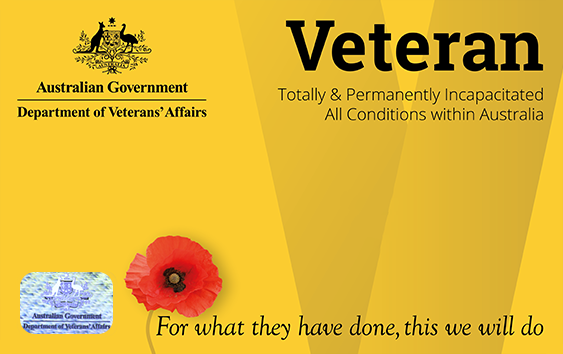
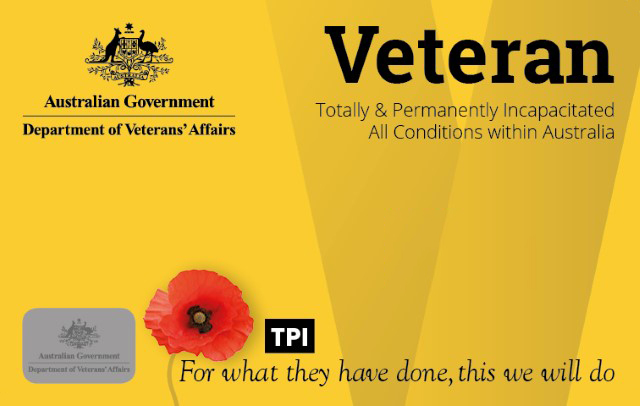
adding card on the way state

diff --git a/src/sass/myservice-healthcards.scss b/src/sass/myservice-healthcards.scss
@@ -1,3 +1,9 @@
+.health-card__on-its-way {
+  hr.non-breaking-hr, p {
+    width: 70%;
+  }
+}
+
 .health-cards__page-wrapper {
   background: $gray-light;
   padding-bottom: 50px;
@@ -47,13 +53,15 @@
 }
 
 .health-card__image--on-its-way {
-  .health-card__image,
-  .card-text {
-    opacity: 0.5;
+  background-color: #fcfcfc;
+  border: 3px dashed #eeeeee;
+  
+  .health-card__image {
+    opacity: 0;
   }
 
   &:before {
-    background: rgba(0, 0, 0, 0.7);
+    background: #e2e2e2;
     border-radius: 3px;
     opacity: 1;
     content: "Your card is on its way";
@@ -308,6 +316,13 @@ hr.non-breaking-hr {
 
 
 @media screen and (min-width: $AU-media-sm) {
+
+  .health-card__on-its-way {
+    hr.non-breaking-hr, p {
+      width: 90%;
+    }
+  }
+
   .health-card__header-text {
     max-width: 200px;
   }
@@ -393,10 +408,10 @@ hr.non-breaking-hr {
   }
 
 .health-card__image--on-its-way {
-  .health-card__image,
-  .card-text {
-    opacity: 0.5;
-  }
+  // .health-card__image,
+  // .card-text {
+  //   opacity: 0.5;
+  // }
 
   &:before {
     font-size: 1.3em;
@@ -441,6 +456,12 @@ hr.non-breaking-hr {
 @media screen and (min-width: $AU-media-md) {
   hr.non-breaking-hr {
     width:  65%;
+  }
+
+  .health-card__on-its-way {
+    hr.non-breaking-hr, p {
+      width: 50%;
+    }
   }
 }
 
